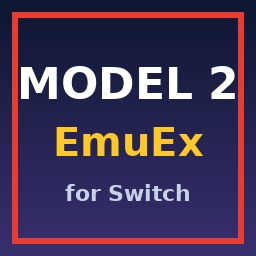
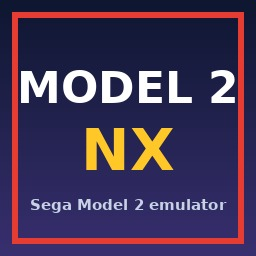
Rename the Switch port to Model2-NX
Claude-Session: https://claude.ai/code/session_015LckircRboy5128J439L4R

diff --git a/sdl/launcher.cpp b/sdl/launcher.cpp
@@ -633,7 +633,7 @@ int m2launch_run(SDL_Window *win, m2_options *o, const char *cfg_path, char *gam
                  const char *message)
 {
     char title[64];
-    snprintf(title, sizeof title, "Model2EmuEx");
+    snprintf(title, sizeof title, "Model2-NX");
     SDL_SetWindowTitle(win, title);
     SDL_GL_SetSwapInterval(1);
 
@@ -676,7 +676,7 @@ int m2launch_run(SDL_Window *win, m2_options *o, const char *cfg_path, char *gam
         ImGui::SetNextWindowSize(vp->WorkSize);
         ImGui::Begin("launcher", NULL, ImGuiWindowFlags_NoDecoration | ImGuiWindowFlags_NoMove |
                                            ImGuiWindowFlags_NoBringToFrontOnFocus | ImGuiWindowFlags_NoSavedSettings);
-        ImGui::TextUnformatted("Model2EmuEx");
+        ImGui::TextUnformatted("Model2-NX");
         ImGui::SameLine();
 #ifdef __SWITCH__
         ImGui::TextColored(k_dim, "  Sega Model 2 for Switch  -  A: choose   B: back   +: exit");

diff --git a/sdl/switch_sys.c b/sdl/switch_sys.c
@@ -10,9 +10,9 @@ void m2sw_init(void)
 {
     /* the app's folders on the SD card, so the user can see where ROMs go */
     mkdir("sdmc:/switch", 0755);
-    mkdir("sdmc:/switch/Model2EmuEx", 0755);
-    mkdir("sdmc:/switch/Model2EmuEx/roms", 0755);
-    mkdir("sdmc:/switch/Model2EmuEx/NVDATA", 0755);
+    mkdir("sdmc:/switch/Model2-NX", 0755);
+    mkdir("sdmc:/switch/Model2-NX/roms", 0755);
+    mkdir("sdmc:/switch/Model2-NX/NVDATA", 0755);
 }
 
 void m2sw_pin_thread(int core)

diff --git a/sdl/m2emu.c b/sdl/m2emu.c
@@ -829,7 +829,7 @@ int main(int argc, char **argv)
     {
         char dbpath[1200];
 #ifdef __SWITCH__
-        snprintf(dbpath, sizeof dbpath, "%s", "sdmc:/switch/Model2EmuEx/gamecontrollerdb.txt");
+        snprintf(dbpath, sizeof dbpath, "%s", "sdmc:/switch/Model2-NX/gamecontrollerdb.txt");
 #else
         char *base = SDL_GetBasePath();
         snprintf(dbpath, sizeof dbpath, "%sgamecontrollerdb.txt", base ? base : "");

diff --git a/sdl/dirlist.c b/sdl/dirlist.c
@@ -58,7 +58,7 @@ int m2dir_exists(const char *path)
 void m2dir_home(char *out, int size)
 {
 #ifdef __SWITCH__
-    snprintf(out, (size_t)size, "%s", "sdmc:/switch/Model2EmuEx");
+    snprintf(out, (size_t)size, "%s", "sdmc:/switch/Model2-NX");
     return;
 #endif
     const char *h = getenv("HOME");

diff --git a/sdl/options.c b/sdl/options.c
@@ -15,7 +15,7 @@
 #endif
 
 #ifdef __SWITCH__   /* everything lives in the app's folder on the SD card */
-#define SWITCH_DIR "sdmc:/switch/Model2EmuEx"
+#define SWITCH_DIR "sdmc:/switch/Model2-NX"
 #endif
 
 void m2opt_defaults(m2_options *o)

diff --git a/README.md b/README.md
@@ -1,4 +1,4 @@
-# Model2EmuEx for Nintendo Switch
+# Model2-NX
 
 A Nintendo Switch homebrew port (`.nro`) of
 [Model2EmuEx](https://github.com/octavioCuatrochio/Model2EmuEx) by octavioCuatrochio:
@@ -22,9 +22,9 @@ Other Model 2 / 2A games in the list may boot but haven't been tried. Model 2B
 
 ## Installation
 
-1. Copy `Model2EmuEx.nro` to `sdmc:/switch/Model2EmuEx/` on the SD card.
+1. Copy `Model2-NX.nro` to `sdmc:/switch/Model2-NX/` on the SD card.
 2. Put the MAME-style ROM zips (`daytona.zip`, `vf2.zip`, `srallyc.zip`, and
-   `model2.zip` if your sets need it) in `sdmc:/switch/Model2EmuEx/roms/`.
+   `model2.zip` if your sets need it) in `sdmc:/switch/Model2-NX/roms/`.
 3. Launch it from the Homebrew Menu. Use title takeover (hold R while opening a
    game) rather than the album applet, so the emulator gets all the memory.
 
@@ -32,10 +32,10 @@ The folders are created on the first run if they're missing.
 
 | Path | Contents |
 |------|----------|
-| `sdmc:/switch/Model2EmuEx/roms/` | ROM zips |
-| `sdmc:/switch/Model2EmuEx/NVDATA/` | save data (`<game>.DAT`, same format as the PC emulator's) |
-| `sdmc:/switch/Model2EmuEx/m2emu.ini` | settings, written by the launcher |
-| `sdmc:/switch/Model2EmuEx/gamecontrollerdb.txt` | optional extra pad mappings |
+| `sdmc:/switch/Model2-NX/roms/` | ROM zips |
+| `sdmc:/switch/Model2-NX/NVDATA/` | save data (`<game>.DAT`, same format as the PC emulator's) |
+| `sdmc:/switch/Model2-NX/m2emu.ini` | settings, written by the launcher |
+| `sdmc:/switch/Model2-NX/gamecontrollerdb.txt` | optional extra pad mappings |
 
 ## Controls
 
@@ -95,7 +95,7 @@ Or with Docker, no local install needed:
 
     docker run --rm -v "$PWD":/src -w /src devkitpro/devkita64 make -f Makefile.switch
 
-This writes `Model2EmuEx.nro`. Every push is also built by GitHub Actions
+This writes `Model2-NX.nro`. Every push is also built by GitHub Actions
 (`.github/workflows/switch.yml`); the `.nro` is on the run's page under Artifacts.
 
 The desktop build (Linux / Windows) still works with the original `Makefile`.
